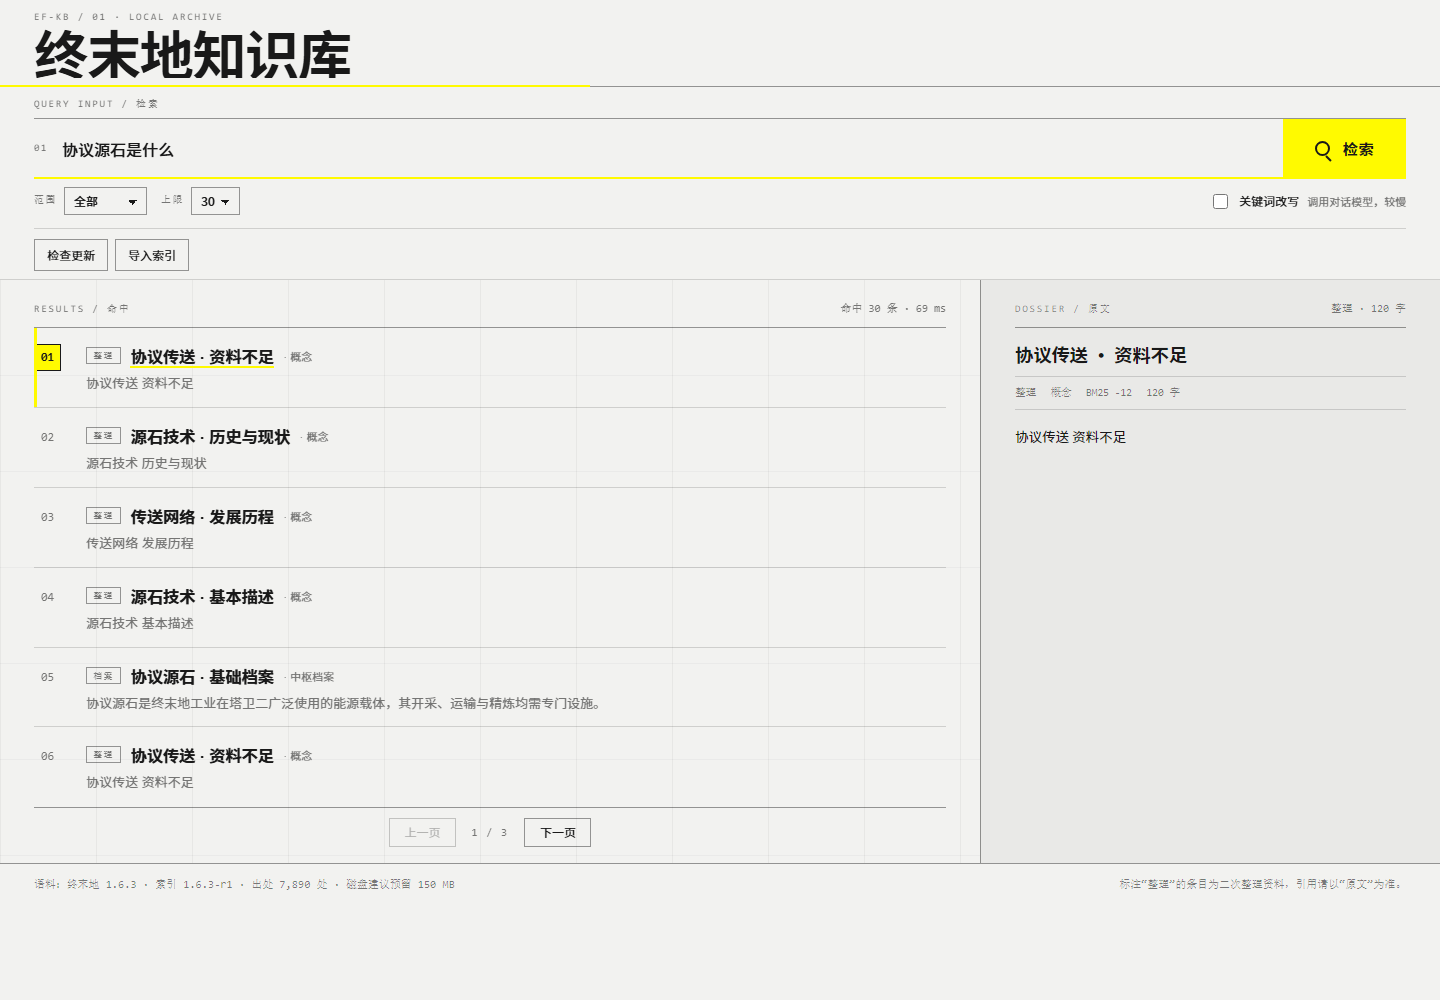
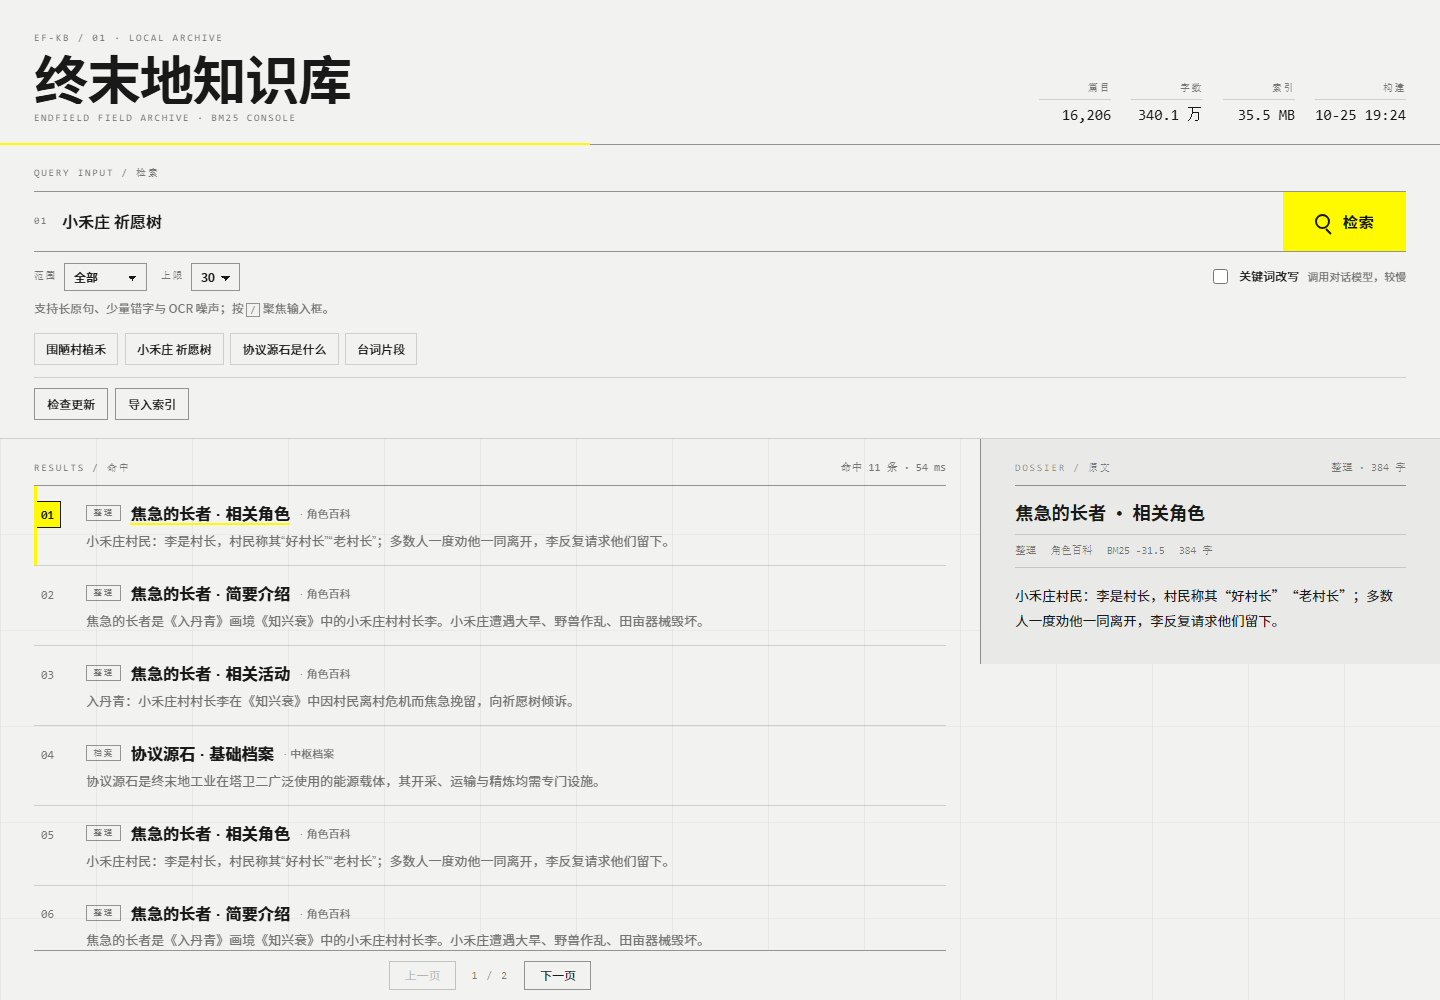
fix: two-column page scroll, no inner scrollbars

diff --git a/views/kb-console/style.css b/views/kb-console/style.css
@@ -57,42 +57,11 @@ body {
 }
 
 .ark-shell {
-  block-size: 100svh;
-  min-block-size: 0;
-  overflow: hidden;
+  min-block-size: 100svh;
   display: grid;
   grid-template-columns: minmax(0, 1fr) var(--ark-detail-w);
-  grid-template-rows: auto auto minmax(0, 1fr) auto;
+  grid-template-rows: auto auto auto auto;
   background: var(--ark-paper);
-}
-
-/* 检索后收起入口页头部，把高度让给结果列表 */
-.ark-shell[data-view="results"] .ark-topbar {
-  padding-block: 0.6rem 0.5rem;
-}
-
-.ark-shell[data-view="results"] .ark-title {
-  font-size: clamp(1.05rem, 1.5vw, 1.4rem);
-  margin-block-start: 0.1rem;
-}
-
-.ark-shell[data-view="results"] .ark-sub,
-.ark-shell[data-view="results"] .ark-stats,
-.ark-shell[data-view="results"] .ark-examples,
-.ark-shell[data-view="results"] .ark-hint {
-  display: none;
-}
-
-.ark-shell[data-view="results"] .ark-query {
-  padding-block: 0.65rem 0.55rem;
-}
-
-.ark-shell[data-view="results"] .ark-form {
-  margin-block-start: 0.35rem;
-}
-
-.ark-shell[data-view="results"] .ark-query-meta {
-  margin-block-start: 0.5rem;
 }
 
 /* ---------------------------------------------------------------- 顶部 */
@@ -448,7 +417,7 @@ body {
   grid-column: 1 / -1;
   display: grid;
   grid-template-columns: minmax(0, 1fr) var(--ark-detail-w);
-  min-block-size: 0;
+  align-items: start;
   background-image:
     linear-gradient(90deg, var(--ark-grid-major) 1px, transparent 1px),
     linear-gradient(0deg, var(--ark-grid-minor) 1px, transparent 1px);
@@ -457,18 +426,12 @@ body {
 
 .ark-results {
   min-inline-size: 0;
-  min-block-size: 0;
-  display: flex;
-  flex-direction: column;
-  padding: 1.25rem var(--ark-gutter) 1rem;
+  padding: 1.25rem var(--ark-gutter) 2rem;
   position: relative;
 }
 
 .ark-list-wrap {
-  flex: 1 1 auto;
   min-block-size: 0;
-  overflow-y: auto;
-  overscroll-behavior: contain;
 }
 
 .ark-section-head {
@@ -500,14 +463,17 @@ body {
 }
 
 .ark-pager {
-  flex: 0 0 auto;
+  position: sticky;
+  inset-block-end: 0;
+  z-index: 3;
   display: flex;
   align-items: center;
   justify-content: center;
   gap: 1rem;
   margin-block-start: 0.75rem;
-  padding-block-start: 0.65rem;
+  padding-block: 0.65rem;
   border-block-start: 1px solid var(--ark-rule-strong);
+  background: var(--ark-paper);
 }
 
 .ark-pager[hidden] {
@@ -692,16 +658,10 @@ body {
   border-inline-start: 1px solid var(--ark-rule-strong);
   padding: 1.25rem var(--ark-gutter) 2rem;
   background: var(--ark-surface);
-  display: flex;
-  flex-direction: column;
-  min-block-size: 0;
 }
 
 .ark-detail-body {
   padding-block-start: 0.9rem;
-  overflow: auto;
-  min-block-size: 0;
-  flex: 1 1 auto;
 }
 
 .ark-detail-empty {
@@ -861,37 +821,12 @@ body {
 
 @media (max-width: 860px), (orientation: portrait) {
   .ark-shell {
-    block-size: auto;
-    min-block-size: 100svh;
-    overflow: visible;
     grid-template-columns: minmax(0, 1fr);
   }
 
-  .ark-list-wrap {
-    overflow: visible;
-    padding-block-end: 1rem;
-  }
-
   .ark-pager {
-    position: sticky;
-    inset-block-end: 0;
-    z-index: 3;
     margin-block-start: 0.5rem;
-    padding-block: 0.65rem;
-    background: var(--ark-paper);
     box-shadow: 0 -10px 18px -14px color-mix(in srgb, var(--ark-ink) 45%, transparent);
-  }
-
-  .ark-shell[data-view="results"] .ark-topbar {
-    padding-block: 0.8rem 0.7rem;
-  }
-
-  .ark-shell[data-view="results"] .ark-title {
-    font-size: clamp(1.3rem, 6vw, 1.65rem);
-  }
-
-  .ark-shell[data-view="results"] .ark-query {
-    padding-block: 0.9rem;
   }
 
   .ark-topbar {

diff --git a/views/kb-console/app.js b/views/kb-console/app.js
@@ -178,7 +178,6 @@ function renderError(message) {
 
 function renderHits(payload) {
   clearList();
-  document.querySelector(".ark-shell")?.setAttribute("data-view", "results");
   els.placeholder.hidden = true;
   pulseResults();
   state.hits = payload.hits ?? [];

diff --git a/README.md b/README.md
@@ -143,9 +143,9 @@ zmd 帮助
 - **范围**：全部 / 剧情原文 / 中枢档案 / 整理资料 / 角色资料。切换即用当前查询重跑
 - **上限**：10 / 20 / 30 / 50，默认 30；实际返回仍受相对分数阈值约束
 
-结果按 **10 条一页** 分页。翻页条只在真的有多页时出现，贴在结果栏底部，不会浮到页脚上。
+结果按 **10 条一页** 分页。翻页条只在真的有多页时出现：滚动时贴在结果栏下沿，滚到结果末尾就落回列表下方，不会盖住页脚。
 
-发起检索后，入口页的大标题自动收成一行，把高度让给结果区；列表在结果栏内部滚动，翻页条始终压在它下沿。窗口矮于 760px 时再收起副标题与提示行；窄屏退回整页滚动，翻页条吸底。
+版面是左右两块：左边检索与结果，右边当前选中的正文。**整页随内容向下滚动**，结果列表与正文都不做内部滚动条。
 
 范围只收窄候选集合，不改变排序；命中条数还会被相对分数阈值再砍一次，所以实际返回常少于所选条数。
 
